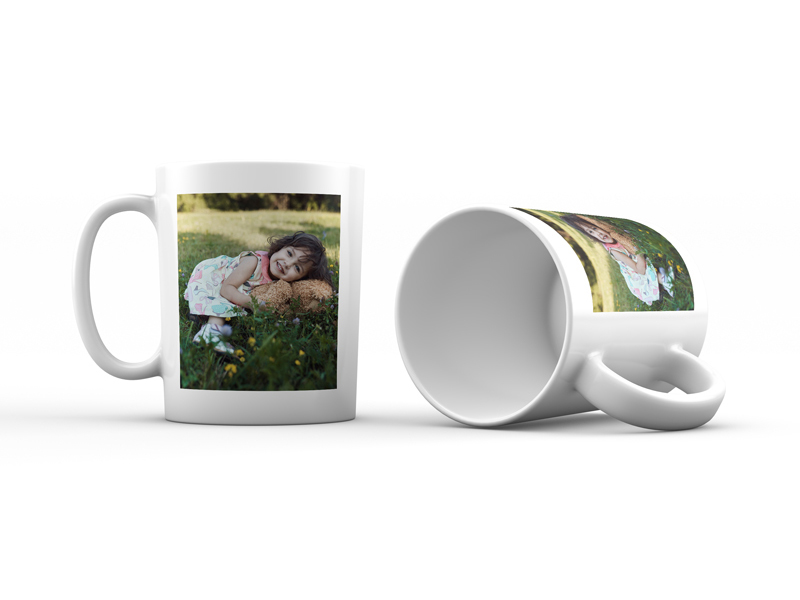
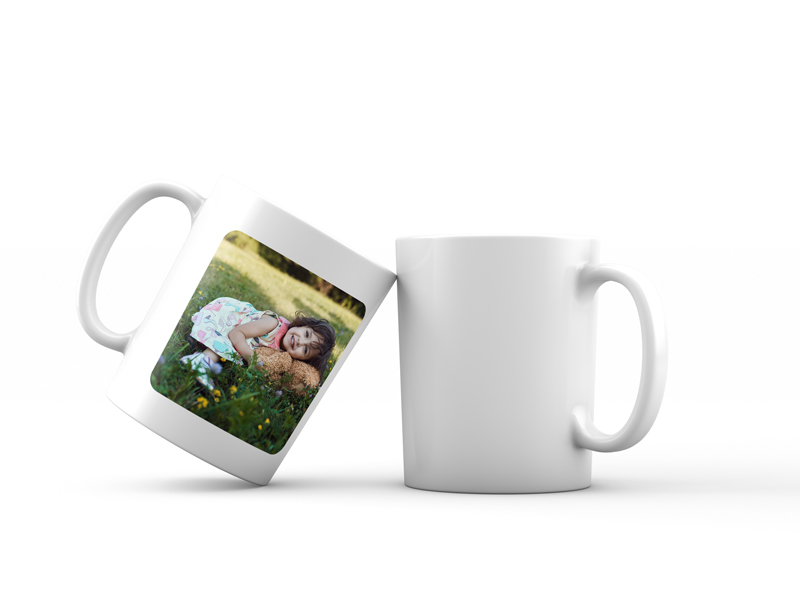
a

Changed region(s): [[0.0938, 0.27, 0.9062, 0.84]]

diff --git a/ajandektargyak.html b/ajandektargyak.html
@@ -58,18 +58,33 @@
       <div class="product">
         <img class="product__pic" src="assets/gifts/mug.jpg" alt="Fényképes bögre">
         <h4>Fényképes bögre</h4>
+        <p class="product__text">Kerámia bögre</p>
+        <p>Egy oldalon nyomott</p>
+        <p class="small-text">kb. 300 ml</p>
+      </div>
+
+      <div class="product">
+        <img class="product__pic" src="assets/gifts/plastic_mug.jpg" alt="Fényképes bögre">
+        <h4>Fényképes műanyag bögre</h4>
+        <p class="product__text">BPA mentes</p>
+        <p>Egy oldalon nyomott</p>
+        <p class="small-text">kb. 300 ml</p>
+      </div>
+
+      <div class="product">
+        <img class="product__pic" src="assets/gifts/mug-gold_silver.jpg" alt="Fényképes bögre">
+        <h4>Belül színes bögre</h4>
         <p class="product__text">Többféle:</p>
-        <p>Kerámia bögre  |  Műanyag bögre  |  Belül színes bögre</p>
-        <p>Egy fotóval</p>
-        <p>300 ml</p>
-        <p class="small-text">Belül színes (gyöngyház): arany vagy ezüst</p>
+        <p>Arany  |  Ezüst</p>
+        <p>Egy oldalon nyomott</p>
+        <p class="small-text">Belseje gyöngyház arany vagy ezüst színű</p>
       </div>
 
       <div class="product">
         <img class="product__pic" src="assets/gifts/magic_mug.jpg" alt="Fényképes varázsbögre">
         <h4>Fényképes varázsbögre</h4>
-        <p class="product__text">Matt fekete vagy csillámos fekete</p>
-        <p>Egy fotóval</p>
+        <p class="product__text">Matt fekete  |  Csillámos fekete</p>
+        <p>Egy nyomattal</p>
         <p class="small-text">Magas hő hatására válik láthatóvá rajta a minta!</p>
       </div>
 
@@ -77,16 +92,16 @@
         <img class="product__pic" src="assets/gifts/coffee_mug.jpg" alt="Fényképes kávés csésze">
         <h4>Kávés csésze</h4>
         <p class="product__text">Csésze + alj  |  Csak csésze</p>
-        <p>Egy fotóval</p>
-        <p class="small-text">Az alj nyomatlan!</p>
+        <p>A csésze egyik oldalán fotóval,</p>
+        <p class="small-text">az alj nyomatlan!</p>
       </div>
 
       <div class="product">
         <img class="product__pic" src="assets/gifts/bottle.jpg" alt="Fényképes kulacs">
         <h4>Kulacs</h4>
         <p class="product__text">Fém kulacs</p>
-        <p>Egy fotóval</p>
-        <p class="small-text">A kép illusztráció! A kulacs pontos típusa eltérhet a képen látottól!</p>
+        <p>Egy oldalon nyomott - névvel is kérhető!</p>
+        <p class="small-text">A kép illusztráció!<br>A kulacs pontos típusa eltérhet a képen látottól!</p>
       </div>
 
      <div class="product">
@@ -125,8 +140,8 @@
         <h4>Fényképes párna</h4>
         <p class="product__text">Többféle:</p>
         <P>Textil párna  |  Flitteres párna textil hátoldallal</P>
-        <p>Egy oldalon nyomott, töltettel</p>
-        <p>40 x 40 cm</p>
+        <p>Egy oldalon nyomott</p>
+        <p>40 x 40 cm párna, töltettel</p>
         <p class="small-text">A flitteres párna esetén a nyomat bármelyik oldalra kérhető!<br>
           (Ha nem kerül külön jelölésre, a flitteres felére kerül a fotó!)</p>
       </div>
@@ -144,8 +159,15 @@
         <h4>Falióra</h4>
         <p class="product__text">Kb. 30 cm átmérőjű falióra</p>
         <p>Számlappal és fotóval</p>
-        <p> Anyaga: MDF</p>
+        <p>Anyaga: MDF</p>
         <p class="small-text">(Az elem nem tartozék! 1db AA)</p>
+      </div>
+
+      <div class="product">
+        <img class="product__pic" src="assets/gifts/metal_box.jpg" alt="Falióra">
+        <h4>Fém doboz</h4>
+        <p class="product__text">Kb. 18x11x5 cm-es fém doboz</p>
+        <p>Fedelén fotóval</p>
       </div>
 
       <div class="product">
@@ -154,26 +176,26 @@
         <p class="product__text">Kb. 20x29 cm-es 1 oldalas, éves naptár</p>
         <p>Többféle</p>
         <p>Fiús | Lányos | Karácsonyi mintával</p>
-        <p>(A 2026-os grafika még szerkesztés alatt!)</p>
+        <p>(A 2026-os grafika szerkesztés alatt!)</p>
       </div>
 
       <div class="product">
         <img class="product__pic" src="assets/gifts/xmas_ball.jpg" alt="Karácsonyfadísz">
+        <h4>Karácsonyfadísz</h4>
+        <p class="product__text">Műanyag gömbdísz fotóval</p>       
+        <p>Véletlenszerű színben kerül gyártásra!<br>
+        <p class="small-text">Amennyiben van preferált típus, kérlek jelezd és az elérhető raktárkészlettől függően
+        igyekszem szem előtt tartani kérésed!</p>
+        <p>(Vegyes színekben elérhető, a kép illusztráció!)</p>
+      </div>
+
+      <div class="product">
+        <img class="product__pic" src="assets/gifts/xmas_decor_metal.jpg" alt="Karácsonyfadísz">
         <h4>Karácsonyfadísz</h4>
         <p class="product__text">Fém dísz</p>
-        <p>Csengettyű formájú fém karácsonyfadísz</p>
         <p>Arany  |  Ezüst</p>
-        <p>Mindkét oldalán fotóval</p>
-      </div>
-
-      <div class="product">
-        <img class="product__pic" src="assets/gifts/xmas_ball.jpg" alt="Karácsonyfadísz">
-        <h4>Karácsonyfadísz</h4>
-        <p class="product__text">Műanyag gömbdísz</p>
-        <p>Többféle (vegyes színekben elérhető, a kép illusztráció!)</p>
-        <p>Véletlenszerű színben kerül gyártásra!<br>
-        <p class="small-text">Amennyiben van preferált szín, kérlek jelezd és az elérhető raktárkészlettől függően
-        igyekszem szem előtt tartani kérésed!</p>
+        <p>Csengettyű formájú fém karácsonyfadísz</p>
+        <p>Mindkét oldalán fotóval!</p>
       </div>
     
       <div class="product">
